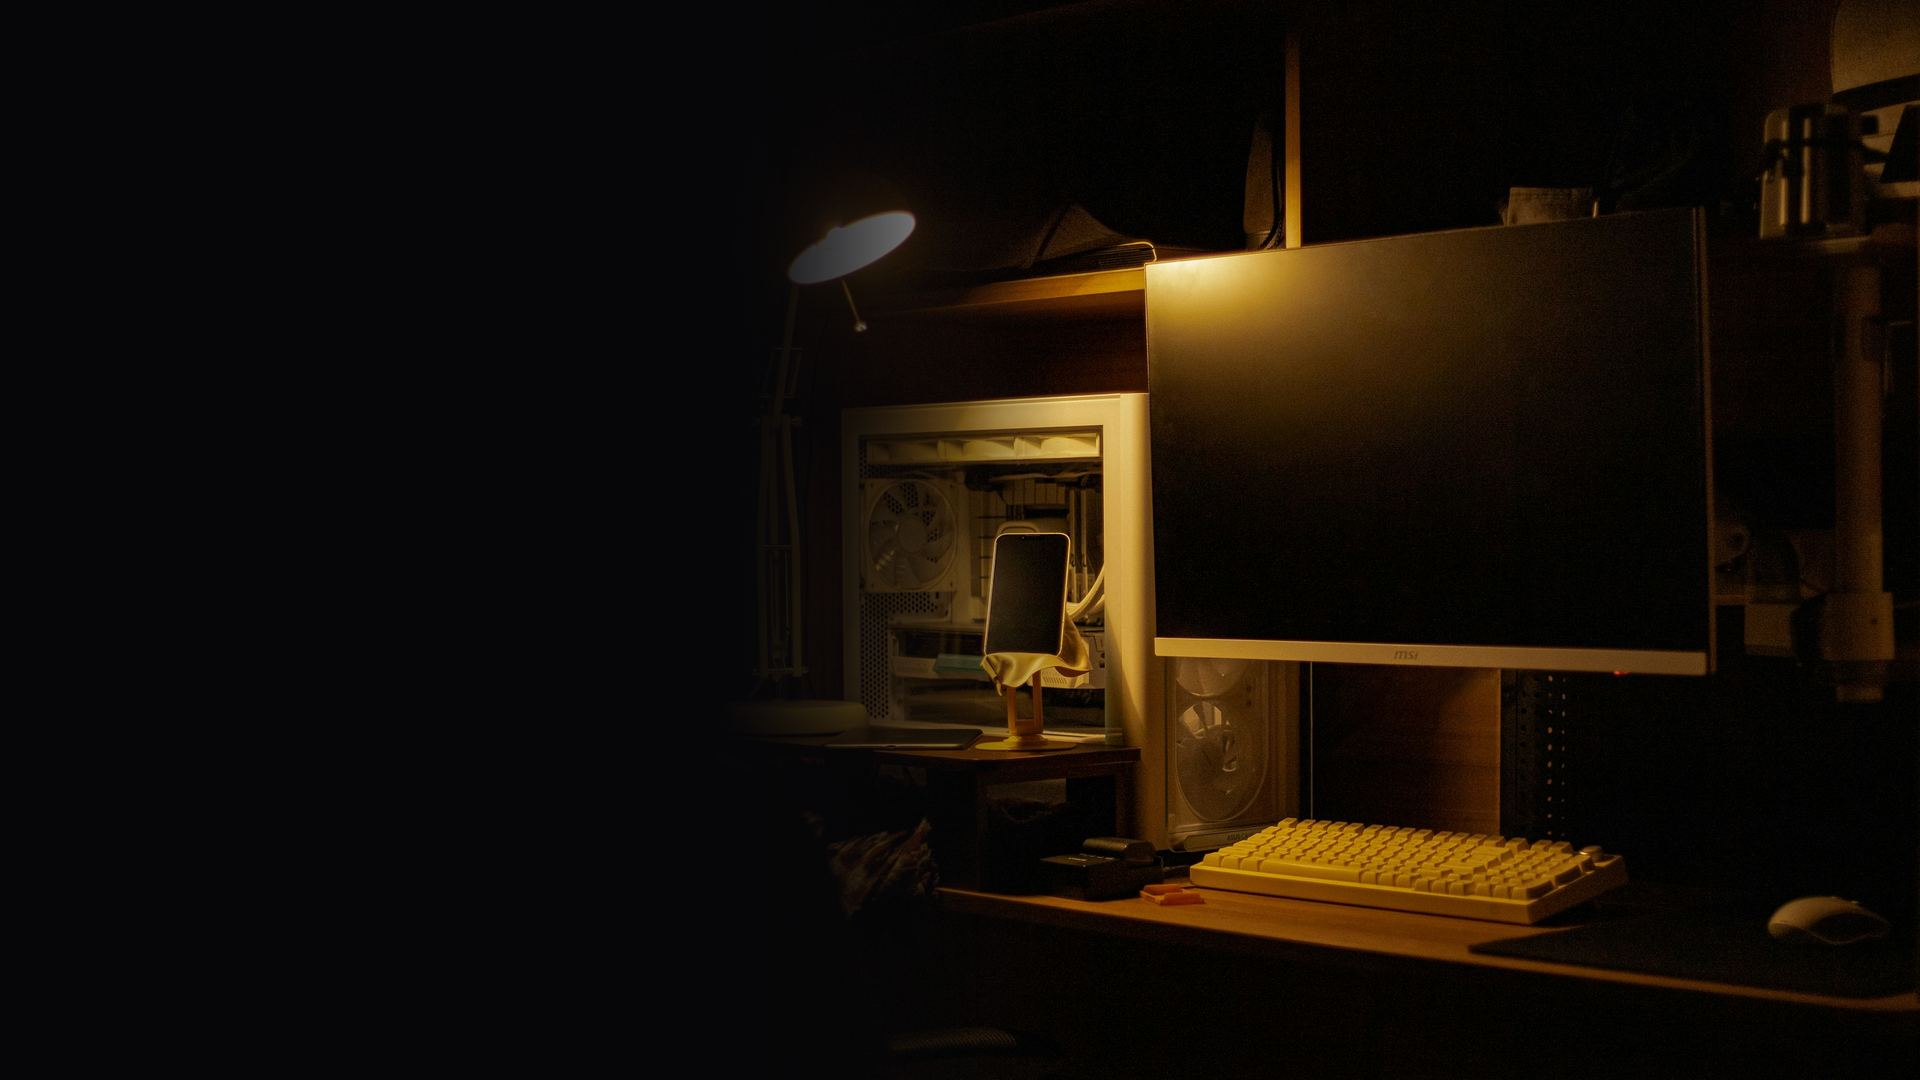
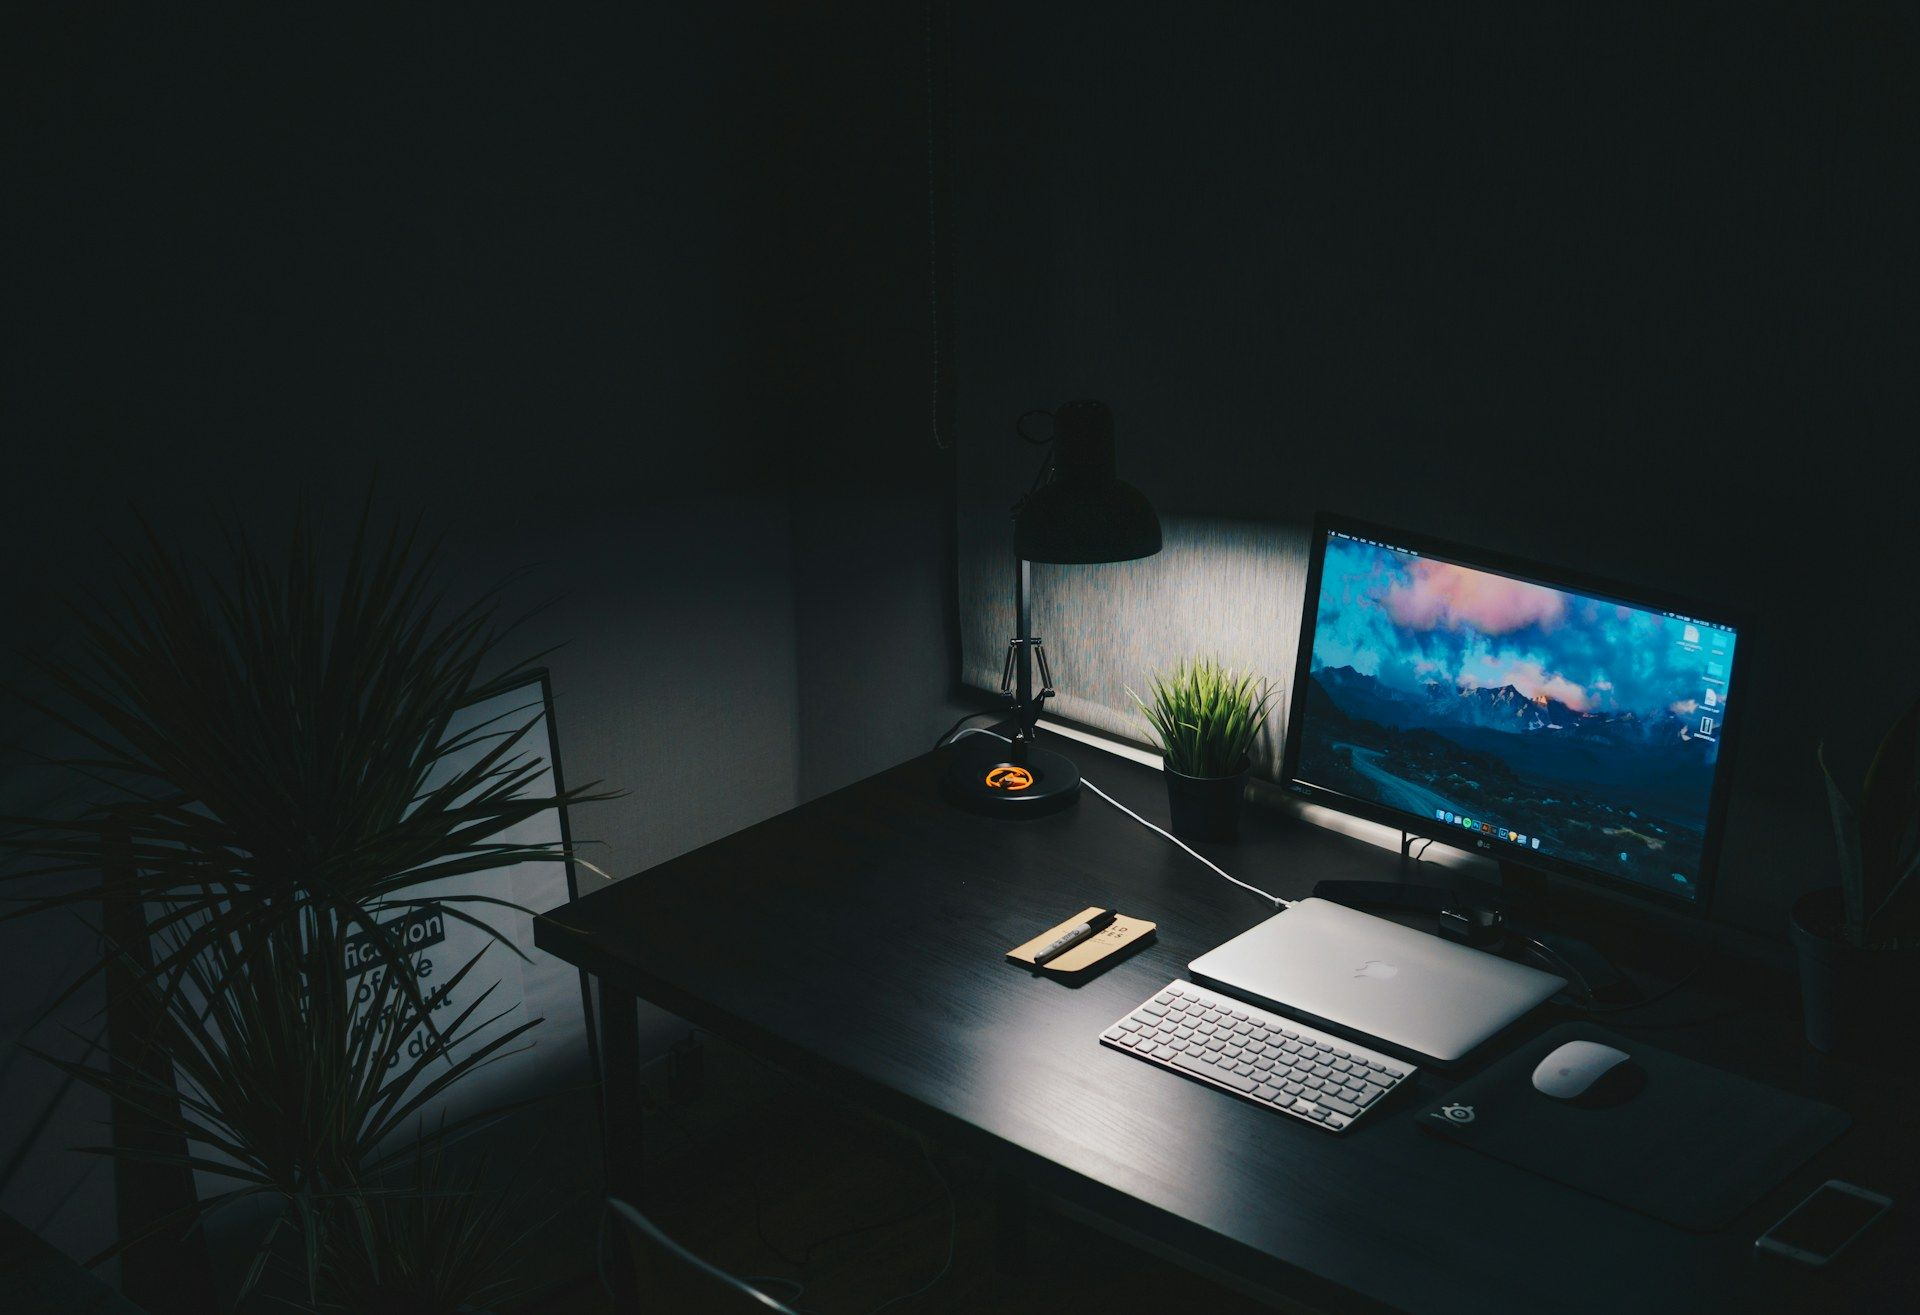
Modern desk background, crisp Anton headings, clean URLs
- Hero background: modern dark desk setup (Unsplash License)
- Anton headings no longer get synthetic bold (was making them blurry)
- In-page links scroll smoothly without adding #section to the URL

diff --git a/index.html b/index.html
@@ -216,6 +216,8 @@
     background:var(--bg);
     color:var(--ink);
     font-family:Montserrat,system-ui,sans-serif;
+    font-synthesis:none;
+    -webkit-font-smoothing:antialiased;
     overflow-x:hidden;
     background-image:
       radial-gradient(1200px 700px at 50% -10%, rgba(31,111,184,.18), transparent 60%),
@@ -270,7 +272,7 @@
   .nav a.active{background:var(--pill);color:#06223f}
 
   .eyebrow{font-size:12px;letter-spacing:.2em;text-transform:uppercase;color:var(--muted)}
-  .title-font{font-family:Anton,Impact,sans-serif;text-transform:uppercase;letter-spacing:.01em}
+  .title-font{font-family:Anton,Impact,sans-serif;font-weight:400;text-transform:uppercase;letter-spacing:.02em}
   .metal{
     background:linear-gradient(180deg,#f2f4f6 0%,#b9c0c8 45%,#7d8792 55%,#cfd5db 100%);
     -webkit-background-clip:text;background-clip:text;color:transparent;
@@ -282,7 +284,7 @@
     background:
       linear-gradient(90deg, rgba(3,6,10,.88) 0%, rgba(3,6,10,.62) 45%, rgba(3,6,10,.35) 100%),
       radial-gradient(700px 420px at 100% 0%, rgba(31,111,184,.30), transparent 70%),
-      url("assets/hero-bg.jpg") right center / cover no-repeat,
+      url("assets/hero-bg.jpg?v=2") right center / cover no-repeat,
       #050608;
   }
   .hero{
@@ -391,7 +393,7 @@
   .item .when::before{content:"";width:7px;height:7px;border-radius:50%;background:var(--steel)}
   .stats{display:grid;grid-template-columns:repeat(3,1fr);gap:10px;margin-top:6px}
   .stat{background:rgba(11,22,38,.7);border-radius:10px;padding:12px;box-shadow:inset 0 0 0 1px var(--line)}
-  .stat strong{display:block;font-family:Anton;font-size:26px;color:#fff;letter-spacing:.02em}
+  .stat strong{display:block;font-family:Anton;font-weight:400;font-size:26px;color:#fff;letter-spacing:.02em}
   .stat span{font-size:10px;letter-spacing:.12em;text-transform:uppercase;color:var(--muted)}
 
   /* ---------- 3. PROJECTS ---------- */
@@ -471,7 +473,7 @@
   .timeline{display:flex;gap:16px;margin-top:36px;flex-wrap:wrap}
   .tl{flex:1 1 200px;background:rgba(11,22,38,.7);border-radius:6px;padding:16px;box-shadow:inset 0 0 0 1px var(--line)}
   .tl .yr{font-family:Oswald;font-size:12px;color:var(--steel);letter-spacing:.1em}
-  .tl b{display:block;font-family:Anton;font-size:20px;margin:4px 0;letter-spacing:.03em;text-transform:uppercase}
+  .tl b{display:block;font-family:Anton;font-weight:400;font-size:20px;margin:4px 0;letter-spacing:.03em;text-transform:uppercase}
   .tl span{font-size:11.5px;color:#aeb9c6;line-height:1.5}
   footer{text-align:center;padding:14px 0 30px;font-size:11px;color:#4b5a6c;letter-spacing:.1em}
 
@@ -498,7 +500,7 @@
     .hero-name-big{font-size:clamp(40px,12.5vw,64px)}
     .logo{top:16px;left:16px}
     .logo img{width:38px;height:38px}
-    #start{background:linear-gradient(180deg, rgba(3,6,10,.6) 0%, rgba(3,6,10,.85) 70%), url("assets/hero-bg.jpg") 70% center / cover no-repeat, #050608}
+    #start{background:linear-gradient(180deg, rgba(3,6,10,.6) 0%, rgba(3,6,10,.85) 70%), url("assets/hero-bg.jpg?v=2") 70% center / cover no-repeat, #050608}
     .hero{flex-direction:column;text-align:center}
     .dshape{margin-left:0;padding-left:30px;border-radius:999px}
     .hero-title{justify-content:center;align-items:center;flex-direction:column;gap:4px}
@@ -784,6 +786,23 @@
 <footer>© SHAMS ULLAH BAIG · FULL-STACK DEVELOPER &amp; AI ENGINEER · ISLAMABAD</footer>
 
 <script>
+/* ---------- in-page links: smooth scroll, keep the URL clean (no #hash) ---------- */
+document.addEventListener("click", e => {
+  const a = e.target.closest('a[href^="#"]');
+  if (!a) return;
+  const id = a.getAttribute("href").slice(1);
+  const el = id ? document.getElementById(id) : null;
+  if (!el) return;
+  e.preventDefault();
+  el.scrollIntoView({behavior: matchMedia("(prefers-reduced-motion: reduce)").matches ? "auto" : "smooth", block: "start"});
+  if (location.hash) history.replaceState(null, "", location.pathname + location.search);
+});
+if (location.hash) {
+  const el = document.getElementById(location.hash.slice(1));
+  history.replaceState(null, "", location.pathname + location.search);
+  if (el) addEventListener("load", () => el.scrollIntoView());
+}
+
 /* ---------- reveal on scroll ---------- */
 const io = new IntersectionObserver(es => es.forEach(e => {
   if (e.isIntersecting) { e.target.classList.add("in"); io.unobserve(e.target); }
